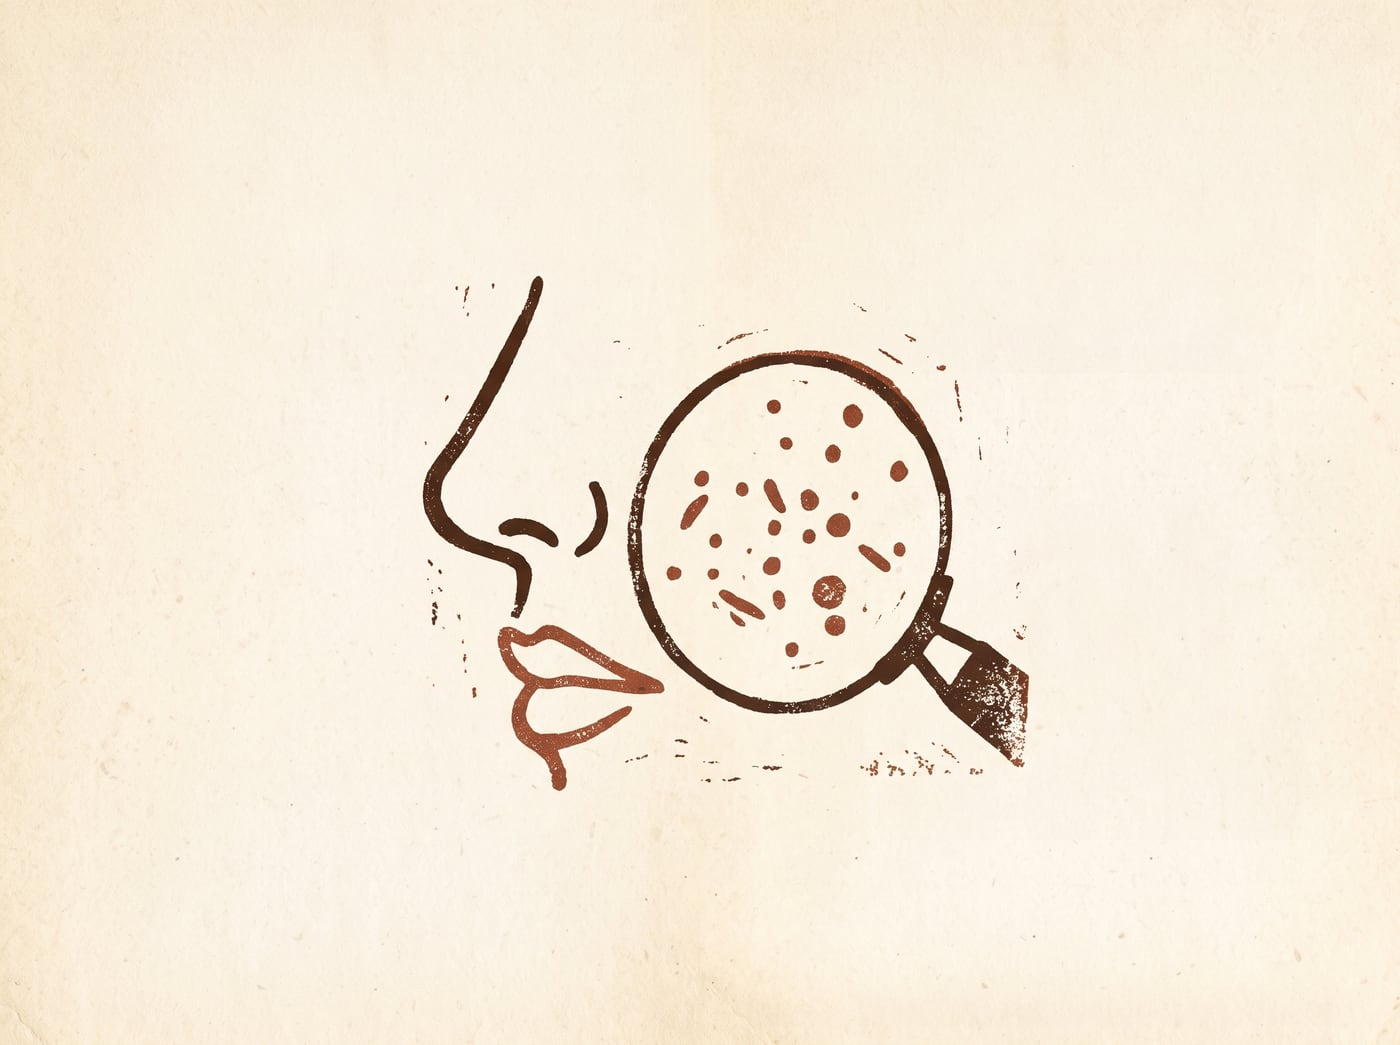
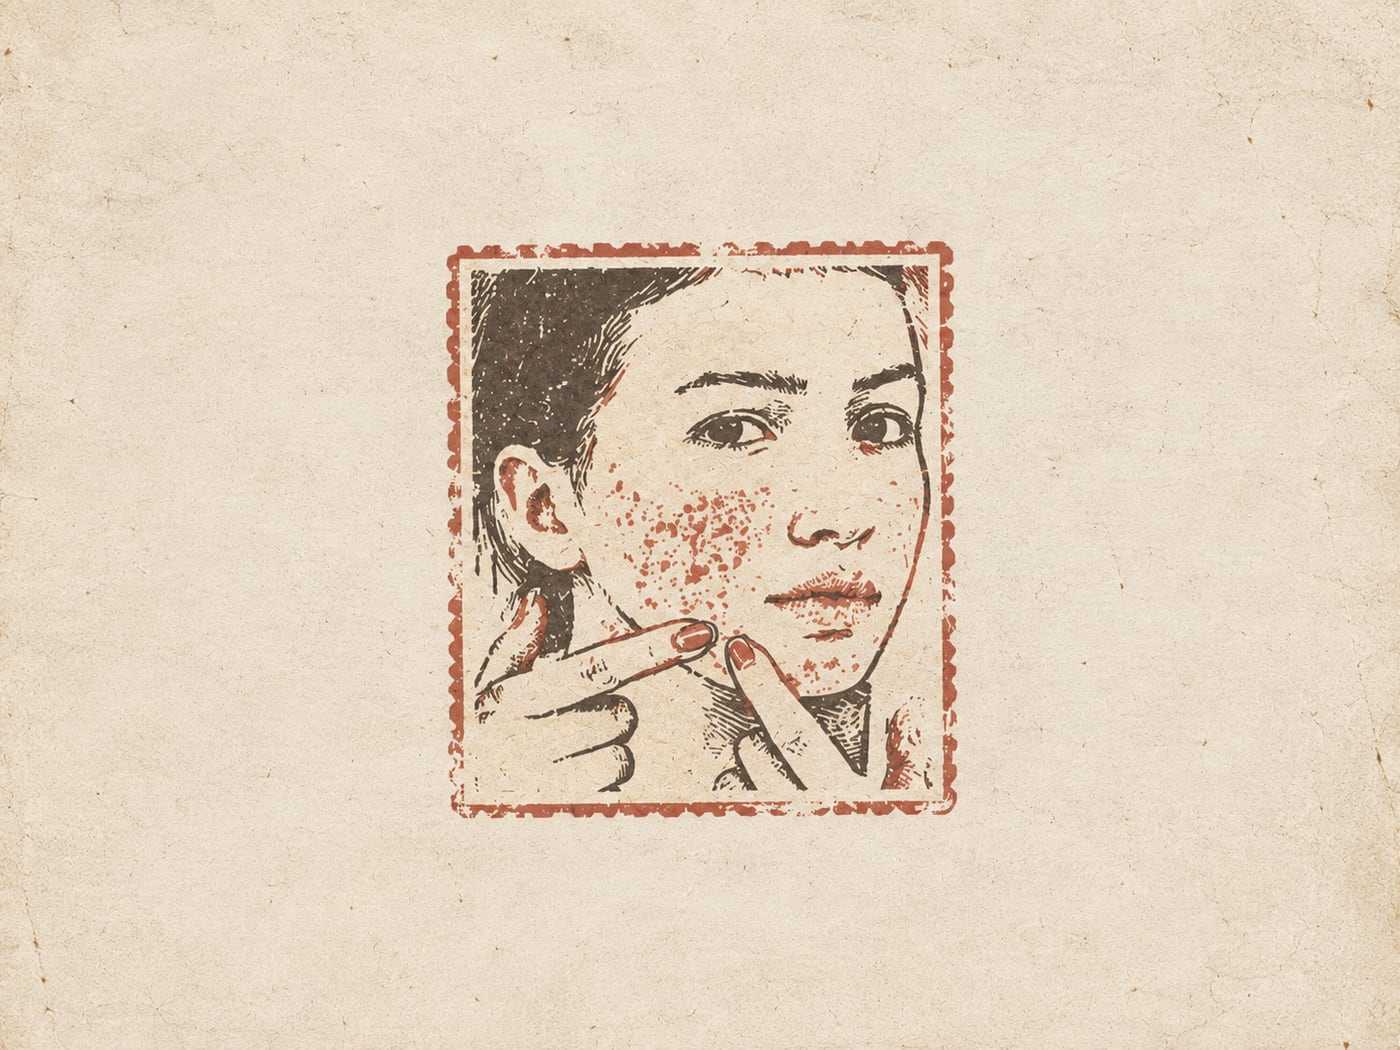
Keep the doctor's face clear on phones, and swap in the new acne cover
On phones the text card sat over the photo and covered her face. The
photo now comes first at full width, and the card only overlaps its
bottom edge where the desk is.

diff --git a/src/styles/global.css b/src/styles/global.css
@@ -1287,18 +1287,22 @@ body.has-drawer {
   }
 }
 
-/* Phones can't fit a column beside her, so the copy sits on a soft card over
-   the picture instead — still on the image, just stacked rather than beside. */
+/* Phones can't fit a column beside her, and a card laid over the photo ends
+   up across her face. So the photo comes first at full width, and the card
+   only tucks over its bottom edge, where the desk is. */
 @media (max-width: 680px) {
   .showcase {
-    min-height: clamp(640px, 158vw, 820px);
+    min-height: 0;
   }
   .showcase__img {
-    object-position: 76% top;
+    position: relative;
+    height: clamp(320px, 100vw, 460px);
+    object-position: 85% top;
   }
   .showcase__inner {
-    align-items: flex-end;
-    padding: 24px 18px 26px;
+    min-height: 0;
+    margin-top: -44px;
+    padding: 0 16px 28px;
   }
   .showcase__panel {
     width: 100%;
